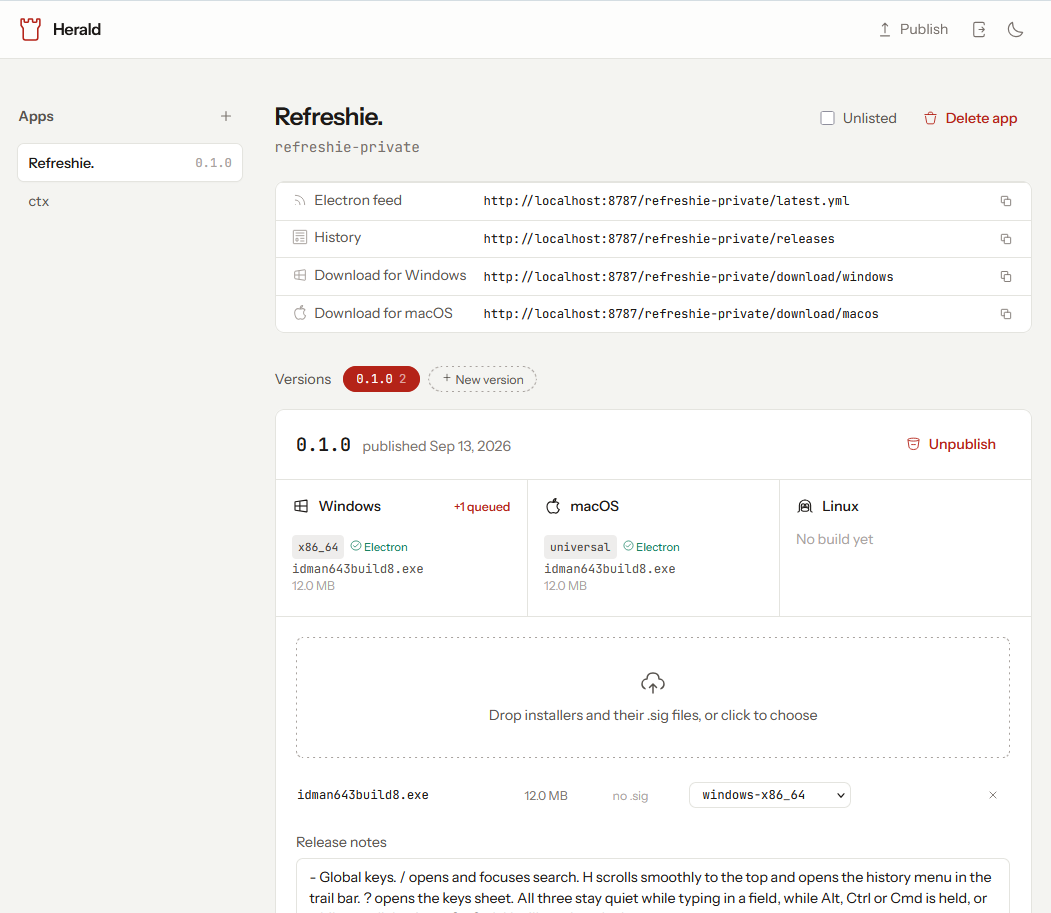
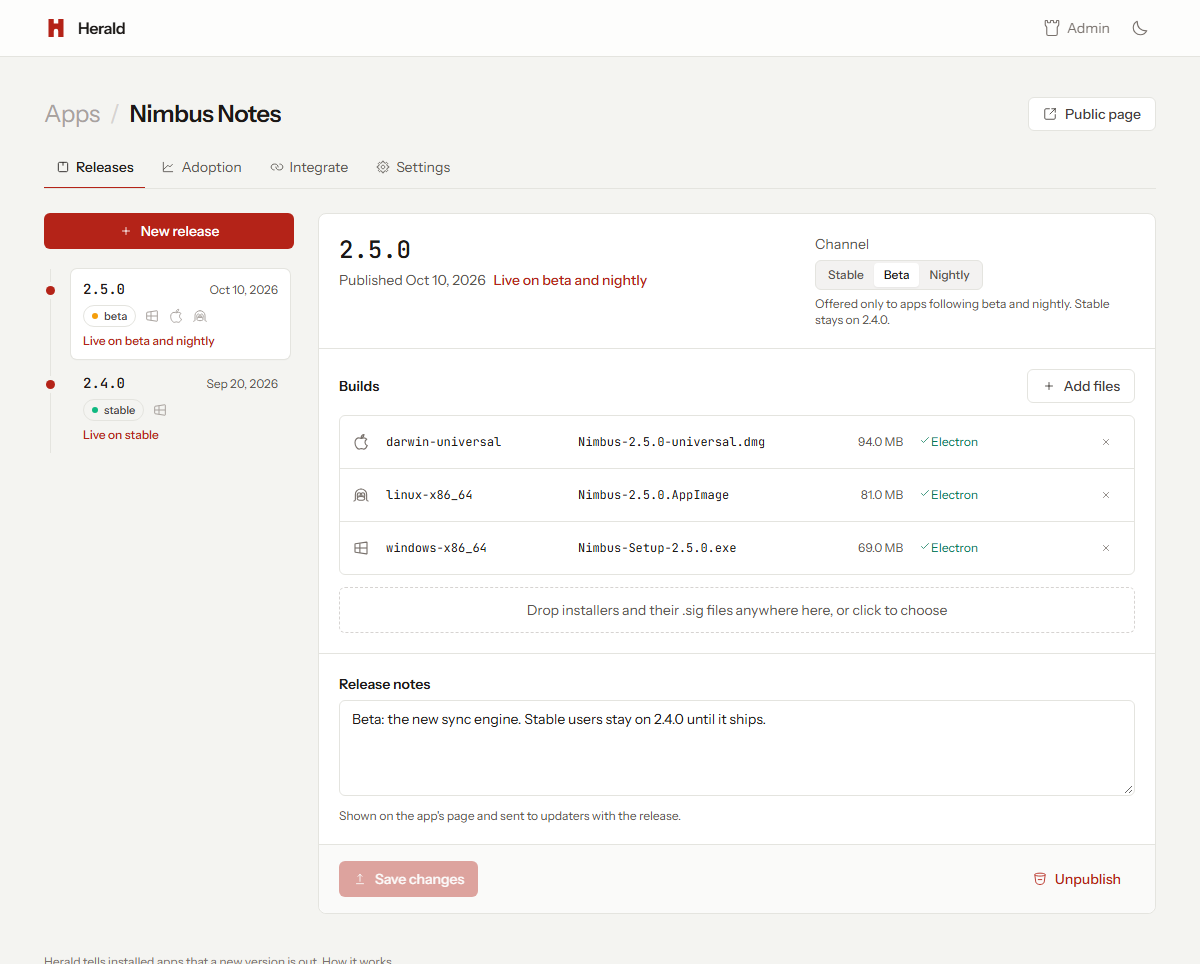
README and screenshots for the new pages
The README describes the one public page per app, the /:slug/download redirect, ?channel= on the page, and the admin's four tabs with their addresses. The channels and counts sections follow the admin's new marks and the Adoption tab. Both screenshots are retaken from the new UI.

diff --git a/README.md b/README.md
@@ -5,8 +5,10 @@ database, one R2 bucket, any number of desktop apps.
 
 ![Herald](assets/screenshot.png)
 
-Publishing is a picker, not a form: choose the app, choose or add the version,
-drop the builds. Each release shows what it has per OS.
+A visitor gets one page per app: a download button for their system, every
+file, and the release history. The operator gets the admin: open an app, start
+a release, drop the builds. Each release shows which channels it is live on
+and which updater feeds every build shows up in.
 
 ![Publishing in Herald](assets/screenshot-admin.png)
 
@@ -66,11 +68,11 @@ scripts, the two stylesheet hosts, and nothing else, and that forbids framing.
 | Route | What it does |
 |-------|--------------|
 | `GET /` | App index. `?format=json` for the same data. Unlisted apps are left out |
-| `GET /:slug` | One app: its links and every release with notes. Works for unlisted apps too |
+| `GET /:slug` | One app: a download button per OS with the visitor's own promoted, every file, and every release with notes. Works for unlisted apps too |
 | `GET /about` | What Herald is, in a page |
 | `GET /login`, `POST /login`, `POST /logout` | Sign in with `ADMIN_USER` and `ADMIN_PASSWORD` |
 | `GET /demo` | A sandbox session over `demo/*.json`. Only when the `DEMO` var is set |
-| `GET /admin` | Publishing UI: pick an app, pick or add a version, drop builds. Redirects to `/login` without a session |
+| `GET /admin` | The operator's side: every app, then per app its releases, adoption, feed URLs and settings. Redirects to `/login` without a session |
 | `PUT /:slug` | Create an app, rename it, or toggle it. Body `{"name": "...", "unlisted": true}`, either field optional |
 | `DELETE /:slug` | Delete an app and every release |
 | `PUT /:slug/upload/:version/:file` | Store an artifact in R2, returns its public URL |
@@ -79,15 +81,15 @@ scripts, the two stylesheet hosts, and nothing else, and that forbids framing.
 | `GET /:slug/:target/:arch/:version` | Tauri templated feed, `204` when the client is current |
 | `GET /:slug/latest.yml` | electron-updater, Windows. Also `latest-mac.yml`, `latest-linux.yml` |
 | `GET /:slug/appcast.xml` | Sparkle feed for macOS, universal build first |
-| `GET /:slug/download` | Download page: a button per OS, the visitor's own promoted, every file, a badge |
+| `GET /:slug/download` | `302` to `/:slug`, which is the download page |
 | `GET /:slug/badge.svg` | The latest version as a flat badge for a README |
 | `GET /:slug/stats` | Counts for the last 30 days. Requires a session or the token |
 | `GET /:slug/releases` | Release history, newest first, up to 100. Enough for a changelog |
 | `GET /:slug/releases/:version` | One release with its artifacts and whether each is signed or hashed |
 | `GET /:slug/download/:platform` | `302` to the artifact. Takes `windows`, `macos`, `linux`, or an exact key |
 
-Every feed, badge and download route takes `?channel=beta` or `?channel=nightly`.
-Without it, stable.
+Every feed, badge and download route takes `?channel=beta` or `?channel=nightly`,
+and so does the app's page. Without it, stable.
 | `POST /:slug/releases` | Publish. Artifacts merge per platform; with none, only the notes and channel change |
 | `DELETE /:slug/releases/:version` | Unpublish |
 | `DELETE /:slug/releases/:version/:platform` | Remove one artifact from a release |
@@ -160,8 +162,10 @@ when unsaid. A client follows a channel by adding `?channel=` to its feed URL,
 and accepts that channel and every one before it: beta sees stable and beta,
 nightly sees all three, stable sees stable only. So a tester on beta gets the
 stable release the day it ships and is never left behind. Latest is still the
-newest `pub_date` among the accepted releases. The admin's version pills and
-the public history label anything that is not stable.
+newest `pub_date` among the accepted releases. The admin marks each
+release with the channels it is live on right now, says what a channel change
+will do before it is saved, and the public history labels anything that is not
+stable.
 
 ## Counts
 
@@ -180,8 +184,9 @@ or when the buffer fills, so a thousand update checks are one database write.
 The buffer is capped and an isolate that dies before its flush loses a few
 seconds of counts: the numbers are approximate by design.
 
-The admin page shows the last 30 days per app: checks per day as bars, then
-checks over the last week and downloads over the month per version.
+The admin's Adoption tab shows the last 30 days per app: checks per day as
+bars, split into apps already on the newest version and the rest, then checks
+over the last week and downloads over the month per version.
 `GET /:slug/stats` returns the rows to the operator; it is not public.
 
 ## Behaviour worth knowing
@@ -292,7 +297,19 @@ see each other's edits.
 
 ## Publishing: the admin page
 
-Sign in at `/login`, then drop a build output folder on `/admin`. The page:
+Sign in at `/login`. `/admin` lists every app; open one and it has four tabs,
+each its own address (`/admin#ctx/adoption`), so back and reload work:
+
+- **Releases**: the history as a rail, each release marked with the channels it
+  is live on, and the editor for the one that is open.
+- **Adoption**: the counts described above.
+- **Integrate**: every feed URL, download link and the badge, per channel, each
+  with a copy button. A feed the latest release cannot back yet is listed with
+  what it is missing, a `.sig` or a macOS build, not hidden.
+- **Settings**: rename, list or unlist, delete.
+
+To publish, start a new release or open an existing one and drop a build
+output folder anywhere on the page. The page:
 
 1. Pairs each installer with its `.sig` file by name.
 2. Guesses each platform key from the filename, shown in a dropdown you can
